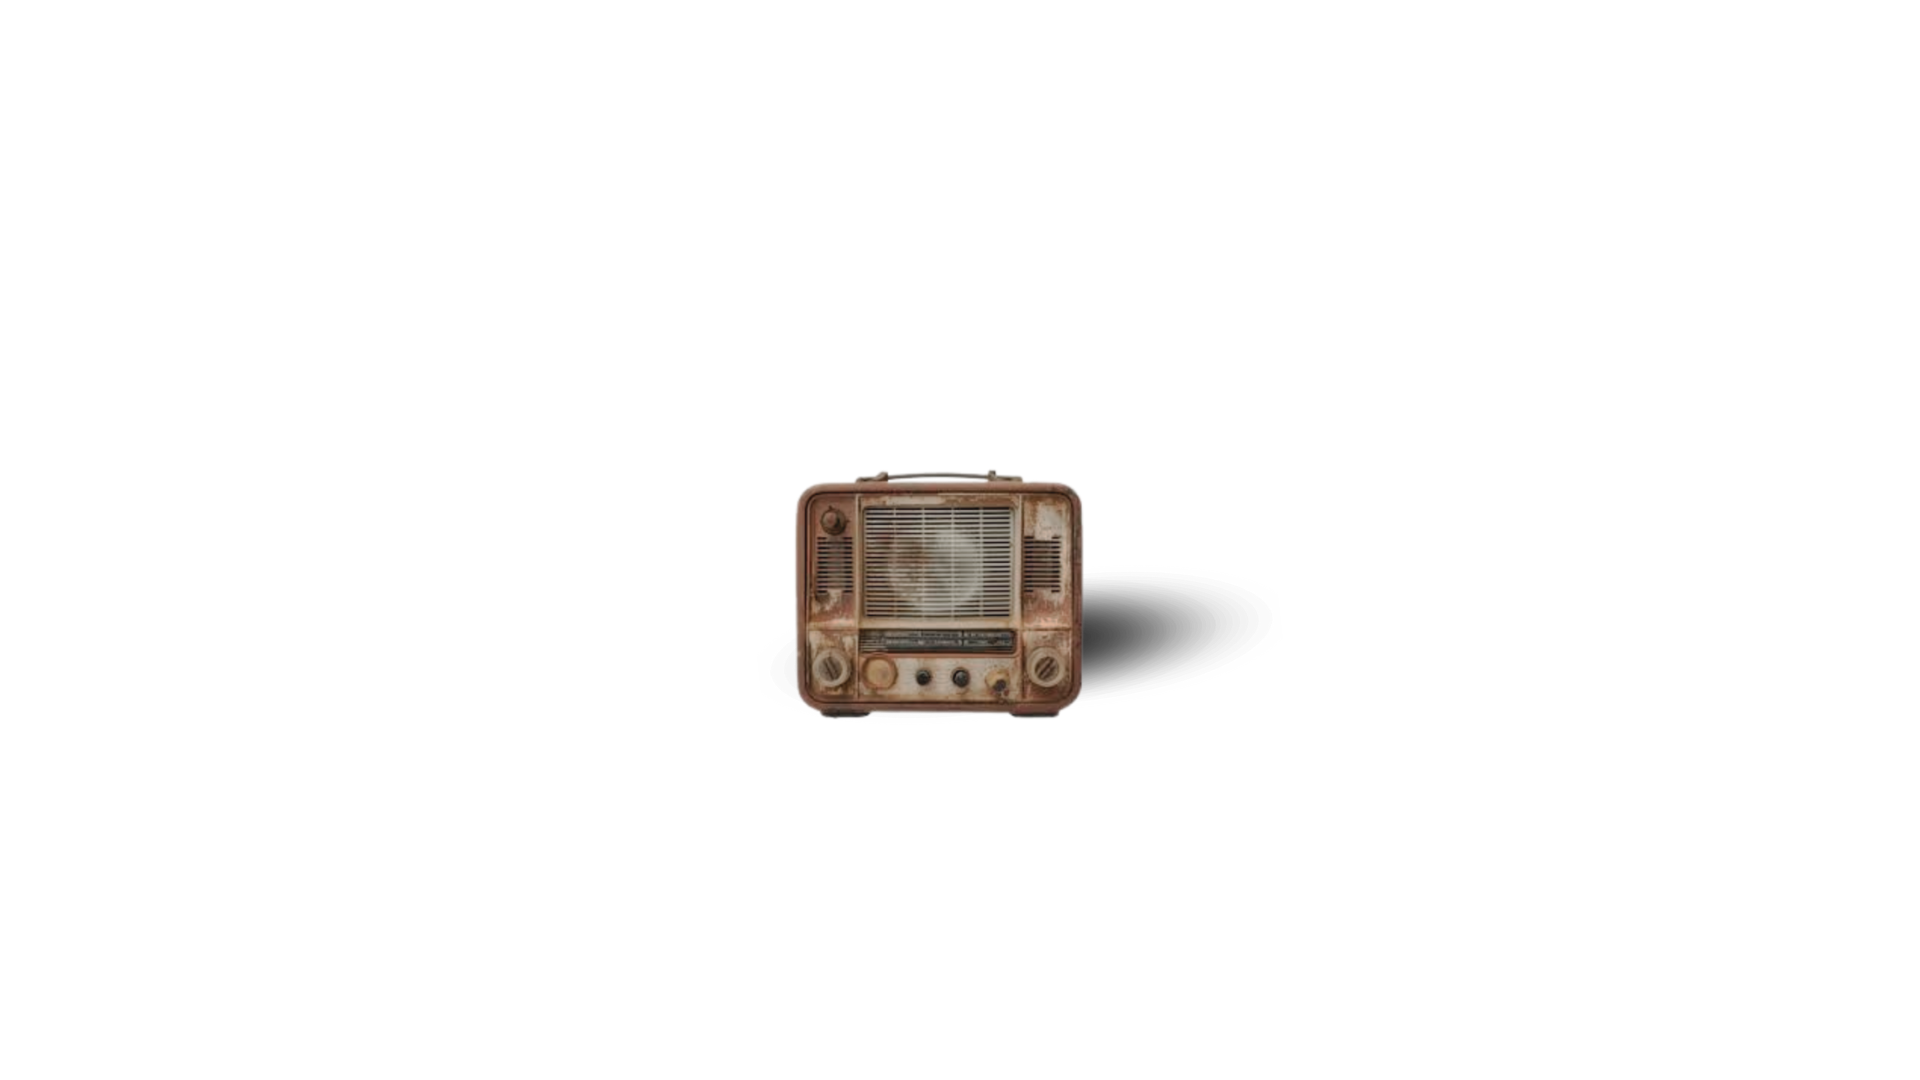
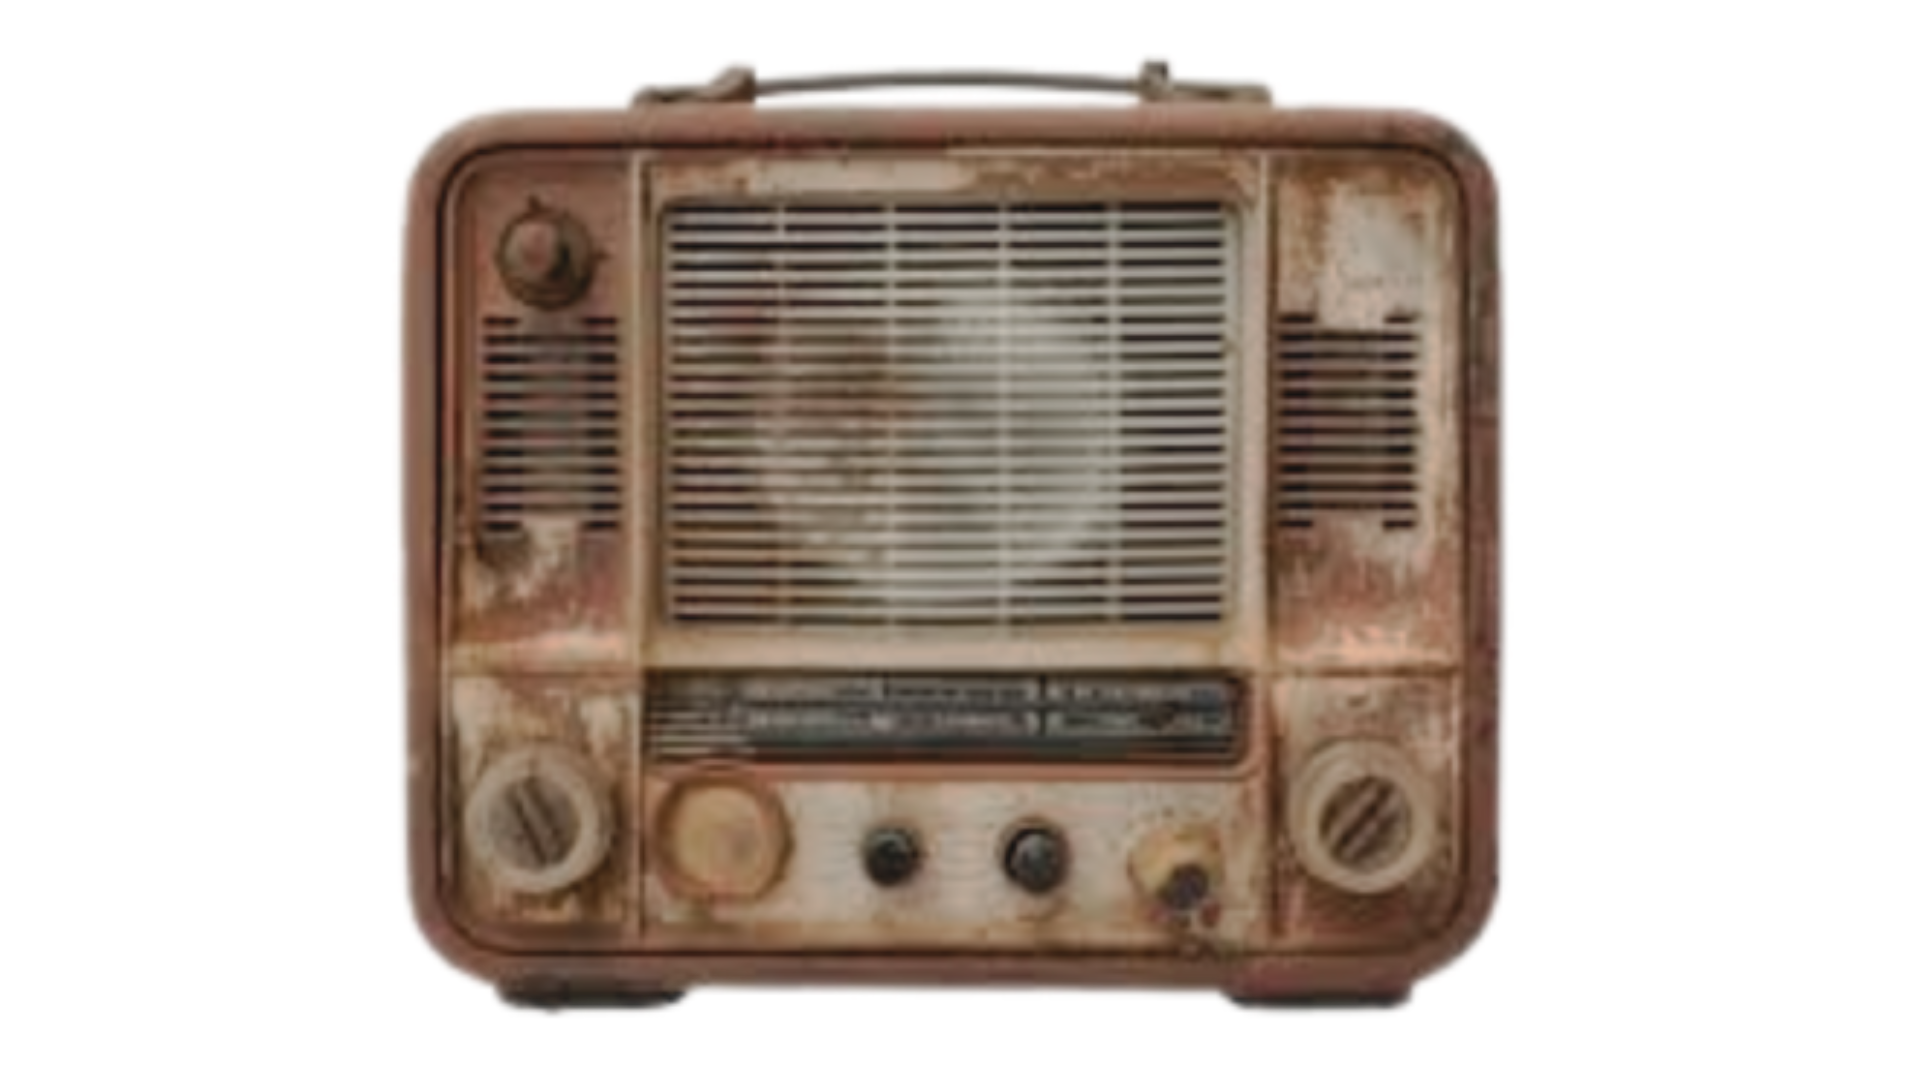
metimos cortina
aa

diff --git a/frontend/src/app/pages/Soldati/mostrador/page.js b/frontend/src/app/pages/Soldati/mostrador/page.js
@@ -8,6 +8,18 @@ import Cliente from "@/components/Clientes";
 
 export default function MostradorLogica() {
     const [score, setScore] = useState(0); // Definimos el estado para el puntaje
+    const [showRecipeModal, setShowRecipeModal] = useState(false); // Estado para el modal de recetas
+    const [persianaAbierta, setPersianaAbierta] = useState(false);
+
+    // Función para abrir o cerrar la persiana
+    const togglePersiana = () => {
+        setPersianaAbierta(!persianaAbierta);
+    };
+    
+    // Función para abrir/cerrar el modal de recetas
+    const toggleRecipeModal = () => {
+        setShowRecipeModal(!showRecipeModal);
+    };
 
     // Estados para el cliente 1
     const [showImage1, setShowImage1] = useState(false);
@@ -63,23 +75,29 @@ export default function MostradorLogica() {
         };
     }, [hasReceivedFood1]);
 
-    // Configuración del cliente 2
+    //Configuracion Cliente 2
     useEffect(() => {
         const showImageTimer2 = setTimeout(() => {
             setShowImage2(true);
             setTimeout(() => setSlideIn2(true), 100);
+    
+            // Inicializa el tiempo restante al aparecer el cliente
+            setTimeLeft2(30);
         }, 30000);
-
+    
+        // Mostrar diálogo después de que el cliente aparece
         const dialogueTimer2 = setTimeout(() => setShowDialogue2(true), 31000);
-
+    
+        // Iniciar el contador solo cuando el cliente está visible y con tiempo inicializado
         const countdownInterval2 = setInterval(() => {
             setTimeLeft2(prev => {
                 if (prev > 0) return prev - 1;
-                clearInterval(countdownInterval2);
+                clearInterval(countdownInterval2); // Detiene el contador al llegar a 0
                 return 0;
             });
         }, 1000);
-
+    
+        // Configuración para ocultar el cliente después de un tiempo
         const hideImageTimer2 = setTimeout(() => {
             if (!hasReceivedFood2) {
                 setSlideIn2(false);
@@ -87,12 +105,12 @@ export default function MostradorLogica() {
                 setShowDialogue2(false);
                 const removeImageTimer2 = setTimeout(() => {
                     setShowImage2(false);
-                    setShowDialogue2(false); // Asegúrate de que el diálogo esté oculto
+                    setShowDialogue2(false);
                 }, 500);
                 return () => clearTimeout(removeImageTimer2);
             }
         }, 61000);
-
+    
         return () => {
             clearTimeout(showImageTimer2);
             clearTimeout(hideImageTimer2);
@@ -100,6 +118,7 @@ export default function MostradorLogica() {
             clearInterval(countdownInterval2);
         };
     }, [hasReceivedFood2]);
+    
 
     // Función para entregar el budín al cliente
     const handleGiveFood = () => {
@@ -162,6 +181,28 @@ export default function MostradorLogica() {
                 onClientClick={() => handleClientClick(2)}
             />
 
+            {/* Botón de recetas */}
+            <button onClick={toggleRecipeModal} className={styles.openModalButton}>
+                Recetas
+            </button>
+
+            {/* Modal de recetas */}
+            {showRecipeModal && (
+                <div className={styles.modalOverlay}>
+                    <div className={styles.modalContent}>
+                        <button onClick={toggleRecipeModal} className={styles.closeModalButton}>
+                            X
+                        </button>
+                        <h3>Recetas</h3>
+                        <ul>
+                            <li>Budín de Chocolate: Masa + chocolate + chips (horno)</li>
+                            <li>Budín de Limón: Masa + vainilla + limon (horno)</li>
+                        </ul>
+                    </div>
+                </div>
+            )}
+
+
             <img
                 src="/objetos/budinLimonSoldati.png"
                 alt="Budín de Limón"
@@ -182,7 +223,28 @@ export default function MostradorLogica() {
             src="/objetos/Radio Soldati.png"
             id="playImg"
             alt="Play Radio"
-        />
+            />
+
+            <img
+            src="/objetos/cajaRegistradoraSoldati.png"
+            alt="Caja registradora"
+            className={styles.cajaRegistadora}
+            />
+
+        <div>
+            {/* Persiana */}
+            <div className={`${styles.persiana} ${persianaAbierta ? styles.abierta : ""}`}></div>
+
+            {/* Botón para abrir/cerrar persiana */}
+            <button className={styles.persianaButton} onClick={togglePersiana}>
+                {persianaAbierta ? "Subir Persiana" : "Bajar Persiana"}
+            </button>
+
+            {/* Contenido restante */}
+            <div className={styles.imgSoldati}>
+                {/* Otros elementos de tu componente */}
+            </div>
+        </div>
   </div>
 );
 }

diff --git a/frontend/src/app/pages/Soldati/mostrador/mostradorsoldati.module.css b/frontend/src/app/pages/Soldati/mostrador/mostradorsoldati.module.css
@@ -28,35 +28,63 @@
     bottom: 20px;
     left: 20px;
     padding: 10px 20px;
-    background-color: #febfff; /* Color del botón */
+    background-color: #febfff;
     color: rgb(0, 0, 0);
     border: none;
     border-radius: 5px;
     cursor: pointer;
+    z-index: 10;
+    font-size: 16px;
 }
 
-/* Estilo del modal */
+/* Estilo del modal centrado en la pantalla */
 .modalOverlay {
     position: fixed;
     top: 0;
     left: 0;
     width: 100%;
     height: 100%;
-    background: rgba(0, 0, 0, 0.5); /* Fondo semitransparente */
+    background: rgba(0, 0, 0, 0.5);
     display: flex;
     justify-content: center;
     align-items: center;
     z-index: 9999;
 }
 
+/* Contenido del modal centrado */
 .modalContent {
     background: white;
-    padding: 32px;
+    padding: 20px;
     border-radius: 10px;
     box-shadow: 0px 0px 10px rgba(0, 0, 0, 0.2);
+    width: 300px;
+    max-height: 300px;
+    overflow-y: auto;
     display: flex;
     flex-direction: column;
-    width: 350px;
+    font-size: 14px;
+    position: relative; /* Para ubicar el botón de cierre de manera absoluta */
+}
+
+/* Botón para cerrar el modal alineado al texto */
+.closeModalButton {
+    position: absolute;
+    top: 10px;
+    right: 10px;
+    padding: 6px;
+    background-color: #f73d30;
+    color: white;
+    border: none;
+    border-radius: 5px;
+    cursor: pointer;
+    z-index: 10;
+}
+
+/* Contenedor de texto alineado con el botón de cierre */
+.modalText {
+    margin-top: 0; /* Elimina el espacio superior */
+    padding-top: 5px; /* Ajusta la alineación con el botón de cerrar */
+    line-height: 1.5;
 }
 
 /* Imagen que aparece y desaparece */
@@ -122,7 +150,12 @@
 
 .imgRadio {
     float: left;
-    margin-left: 470px; /* Adjust as needed */
+    margin-left: 450px; /* Adjust as needed */
+    top: 780px;
+    left: 800px;
+    width: 220px;
+    height: 130px;
+    z-index: 30;
 }
 
 .largerImage {
@@ -146,4 +179,47 @@
     width: 350px;
     cursor: pointer;
     z-index: 30;
+}
+
+.cajaRegistradora {
+    position: absolute;
+    top: 580px;
+    left: 800px;
+    width: 400px;
+    z-index: 30;
+}
+
+.persiana {
+    position: fixed;
+    top: 0;
+    left: 0;
+    width: 100%;
+    height: 0;
+    background-color: rgba(0, 0, 0, 0.8);
+    background-image: url('/objetos/cortina.png');
+    background-size: cover; /* Asegura que la textura cubra todo el ancho */
+    background-repeat: no-repeat;
+    overflow: hidden;
+    z-index: 10; /* Asegura que esté detrás del budín y la radio */
+    transition: height 0.6s ease-in-out;
+}
+
+/* Clase que controla la altura de la persiana cuando está "cerrada" */
+.persiana.abierta {
+    height: 73vh; /* Baja hasta un poco más de la mitad */
+}
+
+/* Botón para abrir y cerrar la persiana */
+.persianaButton {
+    position: fixed;
+    top: 10px;
+    left: 50%;
+    transform: translateX(-50%);
+    background-color: #8e8888;
+    color: white;
+    border: none;
+    padding: 10px 15px;
+    border-radius: 10px;
+    cursor: pointer;
+    z-index: 9999; /* Asegura que esté sobre la persiana */
 }
